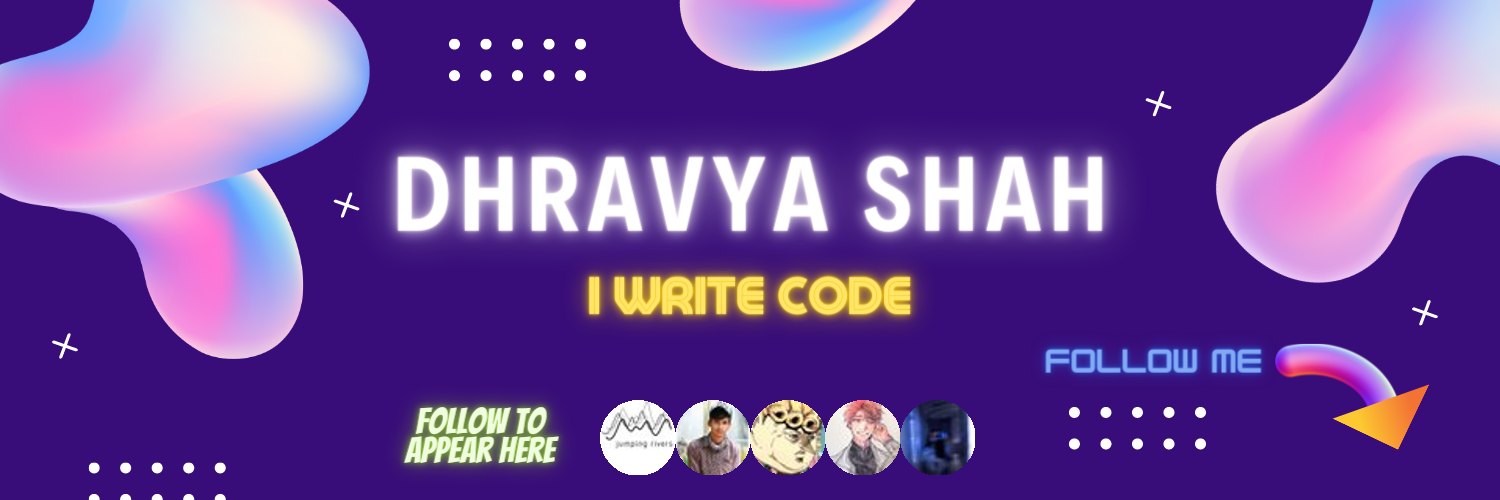
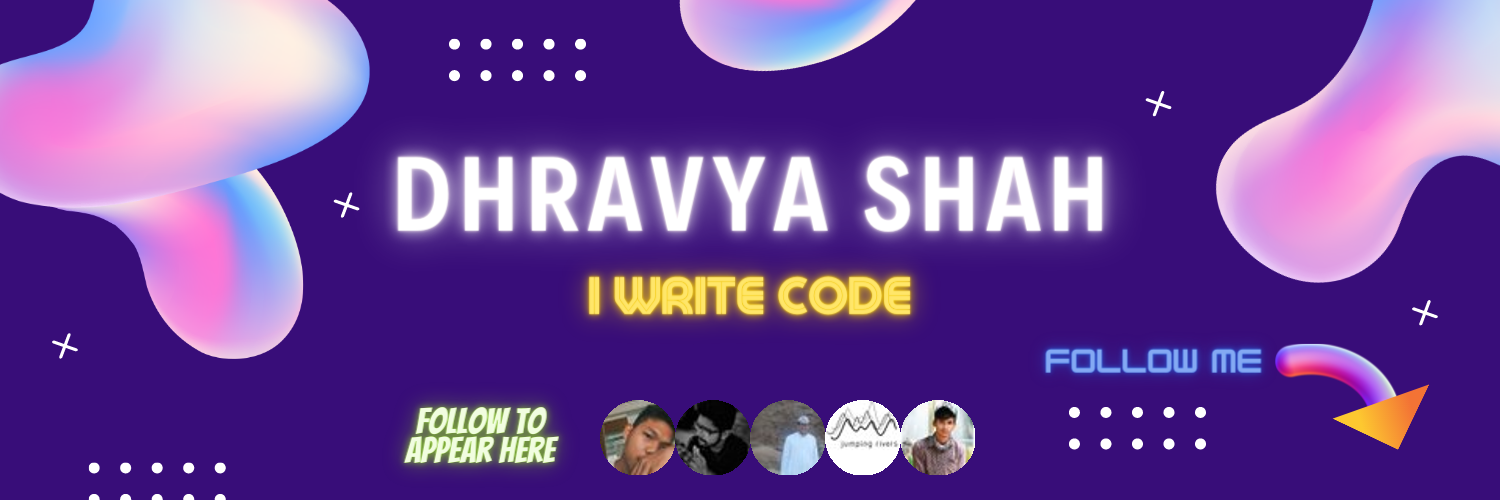
reverted to the last commit

Changed region(s): [[0.3987, 0.78, 0.6747, 0.96]]

diff --git a/main.py b/main.py
@@ -15,7 +15,6 @@ class ProfileBanner:
         self.client = self.__login()
         self.FIRST_IMAGE_COORDS = (600, 400)
         self.IMAGE_DIA = 75
-        self.latest_follower_len = 0
 
     def __login(self):
         """Logins and sets access tokens"""
@@ -27,10 +26,6 @@ class ProfileBanner:
 
     def __get_latest_followers_images(self) -> list[io.BytesIO]:
         """Gets all the latest follower images"""
-        f = len(self.client.get_followers())
-        if f <= self.latest_follower_len:
-            return []
-        self.latest_follower_len = f
         latest_followers = self.client.get_followers(
             user_id=env.get("USER_ID"), count=5
         )
@@ -47,8 +42,6 @@ class ProfileBanner:
         """
         template = Image.open("template.png")
         images = self.__get_latest_followers_images()
-        if len(images) == 0:
-            return None
         for i, image in enumerate(images):
             image = Image.open(image)
             image = image.resize((self.IMAGE_DIA, self.IMAGE_DIA))
@@ -79,10 +72,7 @@ class ProfileBanner:
 
     def __update_banner(self) -> None:
         """Updates the banner"""
-        update = self.__image_factory(savepath="banner.png")
-        if not update:
-            print("Not updating")
-            return
+        self.__image_factory(savepath="banner.png")
         self.client.update_profile_banner("banner.png")
 
     def update_every_few_minutes(self, minutes:int = 2):
